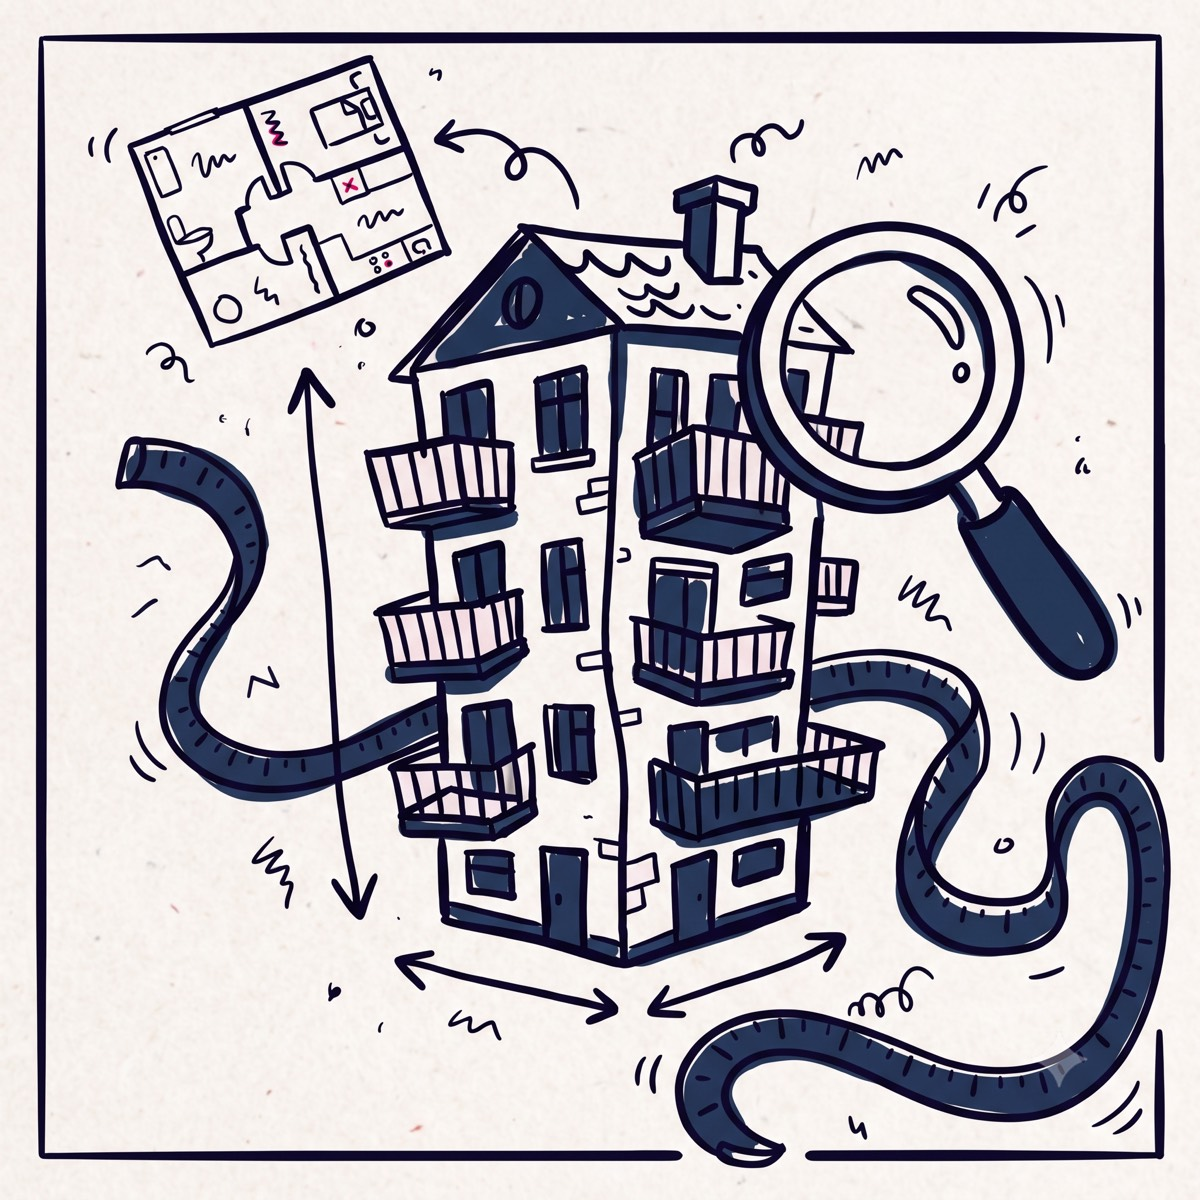
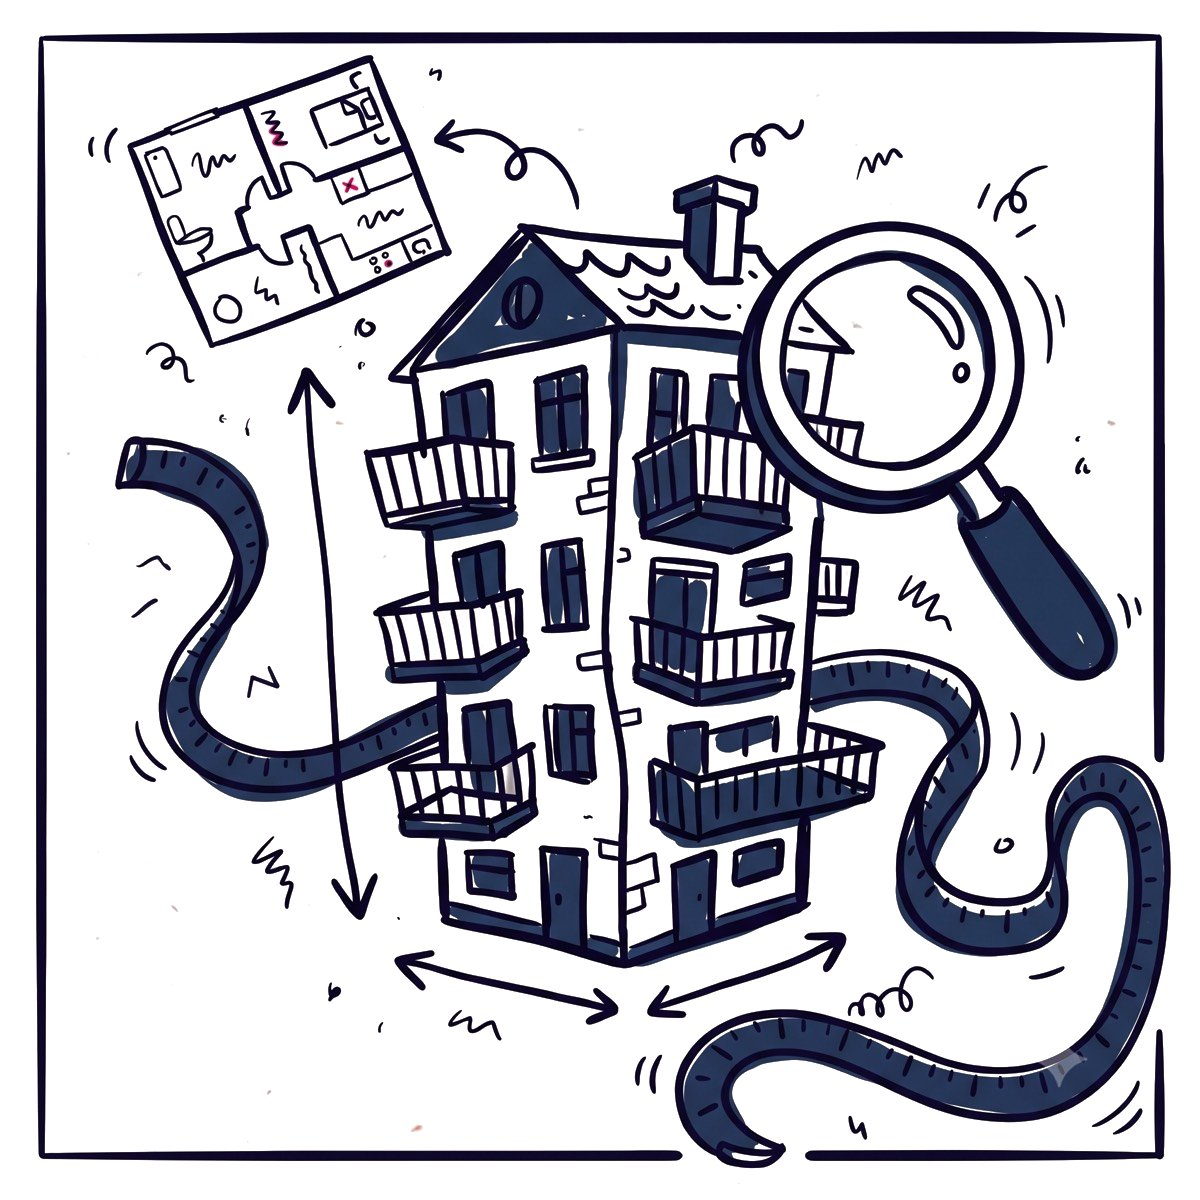
fix: update CSS for better layout and responsiveness; add Cache-Control header in preview server

diff --git a/css/fourwalls.css b/css/fourwalls.css
@@ -200,15 +200,19 @@
     min-width: 0;
     max-width: 175px;
   }
+  /* Keep caption + price inside the artwork's white strip — the map pin's
+     head pokes up into it, so the text must stay above the pin.          */
   .block-feature-four .img-gallery .card-one .text {
-    padding: 12px 8px 0;
+    padding: 8px 4px 0;
   }
   .block-feature-four .img-gallery .card-one .text h6 {
-    font-size: 12px;
+    font-size: 11px;
     letter-spacing: 0;
+    margin-bottom: 2px;
   }
   .block-feature-four .img-gallery .card-one .text h3 {
     font-size: 20px;
+    line-height: 1.2;
   }
 }
 
@@ -305,6 +309,17 @@
 }
 .fancy-banner-two.fw-banner-blue:before {
   display: none;
+}
+/* Services sidebar menu — the theme circles each row's arrow in black
+   and fills it peach (#ffc8b1) on hover/active; use brand pink instead. */
+.service-category ul a:after {
+  color: #ff0062;
+  border-color: #ff0062;
+}
+.service-category ul a:hover:after,
+.service-details .service-sidebar .service-category ul a.active:after {
+  background: #ff0062;
+  color: #fff;
 }
 /* Grey callout quote on service pages — the theme only styles
    .quote-wrapper inside blog details, so restate the look here.        */
@@ -438,6 +453,14 @@
    icons (details page) are lifted here.                                 */
 .listing-card-one {
   position: relative;
+}
+/* At its Bootstrap z-index:1 the overlay ties with the search banner
+   above (.z-1) and wins on DOM order, so an open filter dropdown
+   (nice-select .list) reaching into the first card row had its clicks
+   stolen by the card. 0 keeps it above the card's static content but
+   below the banner and its dropdowns.                                   */
+.listing-card-one .stretched-link::after {
+  z-index: 0;
 }
 .listing-card-one .action-icons {
   position: relative;

diff --git a/tools/preview-server.js b/tools/preview-server.js
@@ -88,7 +88,11 @@ const server = http.createServer((req, res) => {
       }
       if (st.isDirectory()) filePath = path.join(filePath, "index.html");
       const ext = path.extname(filePath).toLowerCase();
-      res.writeHead(200, { "Content-Type": TYPES[ext] || "application/octet-stream" });
+      res.writeHead(200, {
+        "Content-Type": TYPES[ext] || "application/octet-stream",
+        // Dev server: never let the browser cache, so edits show on plain reload.
+        "Cache-Control": "no-store",
+      });
       fs.createReadStream(filePath).pipe(res);
     });
   } catch (e) {